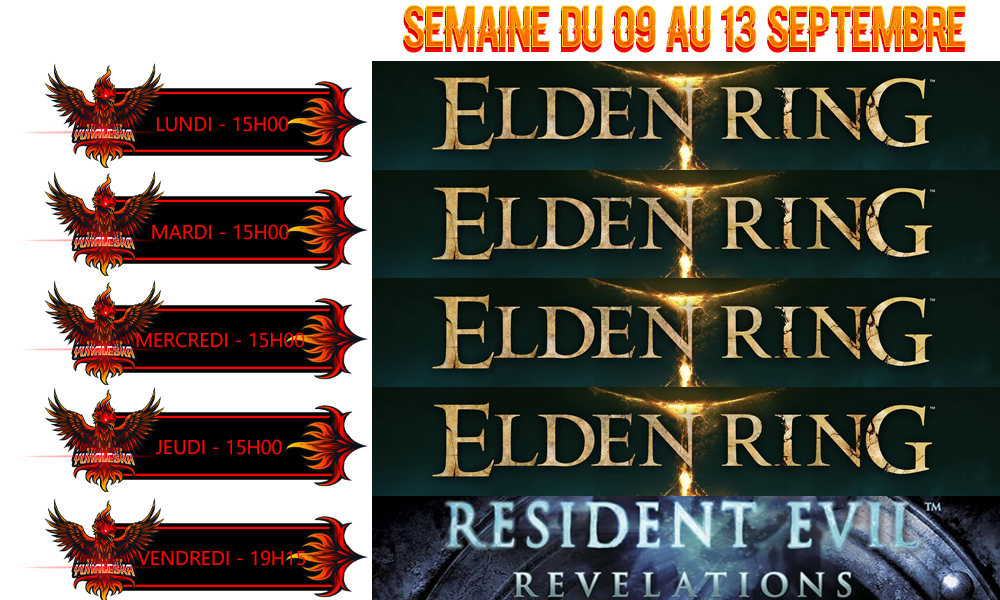
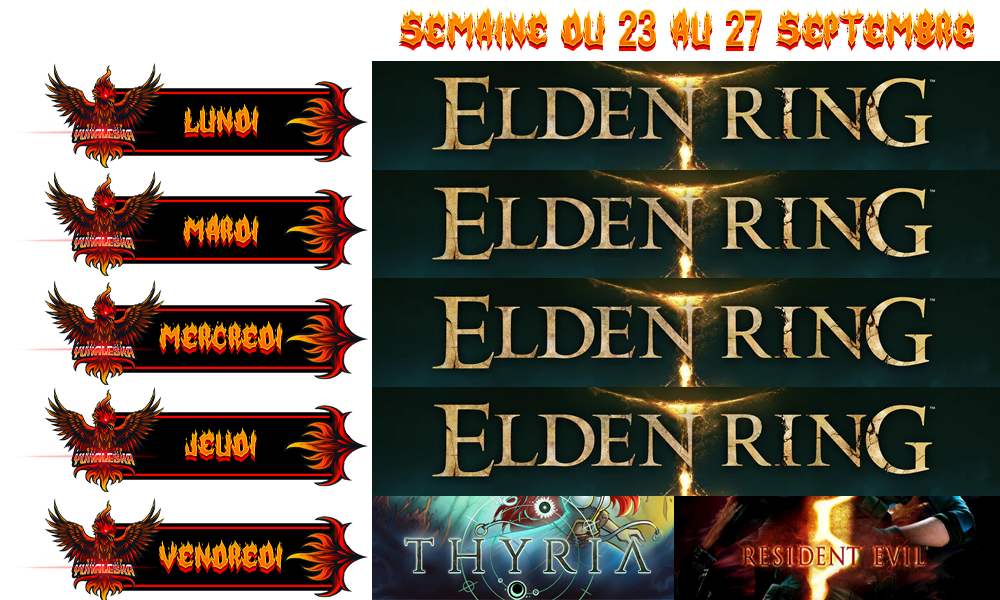
Steam games and achievement updates, planning update, added halloween schedule

diff --git a/steam.html b/steam.html
@@ -40,7 +40,7 @@
 				<h3 class="site-sidebar__pseudo">Rydia</h3>
 				<div class="site-sidebar__informations">
 					<ul class="site-sidebar__list">
-						<li class="site-sidebar__items item-line">108 jeux possédés</li>
+						<li class="site-sidebar__items item-line">109 jeux possédés</li>
 						<div class="site-sidebar__items block-trophies">
 							<li class="site-sidebar__items trophies">
 								<img src="https://zupimages.net/up/23/28/w9k3.png" class="site-sidebar-achievement" /> 7/101
@@ -54,7 +54,7 @@
 							</div>
 						</div>
 						<li class="site-sidebar__items item-line achievement-line">
-							<img src="https://zupimages.net/up/23/28/zq6r.png" class="site-sidebar-achievement" />1321/5430</li>
+							<img src="https://zupimages.net/up/23/28/zq6r.png" class="site-sidebar-achievement" />1347/5461</li>
 						<li class="site-sidebar__items item-line">Premier 100% : Spyro Reignited</li>
 						<li class="site-sidebar__items item-line">Dernier 100% : Tunic</li>
 					</ul>
@@ -67,10 +67,10 @@
 				<section class="site-main__section first-section">
 				
 					<div class="games-show-steam effect-show-steam not-platined-steam">
-            <img src="assets/images/steam/alan-wake.jpg" />
-            <div class="mask mask-1"></div>
-            <div class="mask mask-2"></div>
-            <div class="content">
+						<img src="assets/images/steam/alan-wake.jpg" />
+						<div class="mask mask-1"></div>
+						<div class="mask mask-2"></div>
+						<div class="content">
 							<h2>Alan Wake</h2>
 							<div class="games-trophies">
 								<div class="achievements-steam-logo not-completed-steam">
@@ -82,14 +82,14 @@
 									</div>
 								</div>
 							</div>
-            </div>
-          </div>
+						</div>
+					</div>
 					
 					<div class="games-show-steam effect-show-steam not-platined-steam">
-            <img src="assets/images/steam/aura-kingdom.jpg" />
-            <div class="mask mask-1"></div>
-            <div class="mask mask-2"></div>
-            <div class="content">
+						<img src="assets/images/steam/aura-kingdom.jpg" />
+						<div class="mask mask-1"></div>
+						<div class="mask mask-2"></div>
+						<div class="content">
 							<h2>Aura Kingdom</h2>
 							<div class="games-trophies">
 								<div class="achievements-steam-logo not-completed-steam">
@@ -101,8 +101,8 @@
 									</div>
 								</div>
 							</div>
-            </div>
-          </div>
+						</div>
+					</div>
 					
 					<div class="games-show-steam effect-show-steam not-platined-steam">
             <img src="assets/images/steam/baldurs-gate-3.jpg" />
@@ -455,10 +455,10 @@
 							<div class="games-trophies">
 								<div class="achievements-steam-logo not-completed-steam">
 									<div class="amount-achievement-steam">
-										8/42
+										20/42
 									</div>
 									<div class="percent-games-steam">
-										<div id="elden-ring-percent">19%</div>
+										<div id="elden-ring-percent">47%</div>
 									</div>
 								</div>
 							</div>
@@ -1462,10 +1462,10 @@
 							<div class="games-trophies">
 								<div class="achievements-steam-logo not-completed-steam">
 									<div class="amount-achievement-steam">
-										5/50
+										14/50
 									</div>
 									<div class="percent-games-steam">
-										<div id="re-revelations-percent">10%</div>
+										<div id="re-revelations-percent">28%</div>
 									</div>
 								</div>
 							</div>
@@ -1777,10 +1777,10 @@
           </div>
 
 					<div class="games-show-steam effect-show-steam not-platined-steam">
-            <img src="assets/images/steam/the-kings-bird.jpg" />
-            <div class="mask mask-1"></div>
-            <div class="mask mask-2"></div>
-            <div class="content">
+						<img src="assets/images/steam/the-kings-bird.jpg" />
+						<div class="mask mask-1"></div>
+						<div class="mask mask-2"></div>
+						<div class="content">
 							<h2>The King's Bird</h2>
 							<div class="games-trophies">
 								<div class="achievements-steam-logo not-completed-steam">
@@ -1792,33 +1792,109 @@
 									</div>
 								</div>
 							</div>
-            </div>
-          </div>
+						</div>
+					</div>
 					
 					<div class="games-show-steam effect-show-steam not-platined-steam">
-            <img src="assets/images/steam/tiny-tinas-wonderlands.jpg" />
-            <div class="mask mask-1"></div>
-            <div class="mask mask-2"></div>
-            <div class="content">
+						<img src="assets/images/steam/the-room-1.jpg" />
+						<div class="mask mask-1"></div>
+						<div class="mask mask-2"></div>
+						<div class="content">
+							<h2>The Room</h2>
+							<div class="games-trophies">
+								<div class="achievements-steam-logo not-completed-steam">
+									<div class="amount-achievement-steam">
+										0/5
+									</div>
+									<div class="percent-games-steam">
+										<div class="zero-percent">0%</div>
+									</div>
+								</div>
+							</div>
+						</div>
+					</div>
+
+					<div class="games-show-steam effect-show-steam not-platined-steam">
+						<img src="assets/images/steam/the-room-2.jpg" />
+						<div class="mask mask-1"></div>
+						<div class="mask mask-2"></div>
+						<div class="content">
+							<h2>The Room Two</h2>
+							<div class="games-trophies">
+								<div class="achievements-steam-logo not-completed-steam">
+									<div class="amount-achievement-steam">
+										0/7
+									</div>
+									<div class="percent-games-steam">
+										<div class="zero-percent">0%</div>
+									</div>
+								</div>
+							</div>
+						</div>
+					</div>
+
+					<div class="games-show-steam effect-show-steam not-platined-steam">
+						<img src="assets/images/steam/the-room-3.jpg" />
+						<div class="mask mask-1"></div>
+						<div class="mask mask-2"></div>
+						<div class="content">
+							<h2>The Room Three</h2>
+							<div class="games-trophies">
+								<div class="achievements-steam-logo not-completed-steam">
+									<div class="amount-achievement-steam">
+										0/10
+									</div>
+									<div class="percent-games-steam">
+										<div class="zero-percent">0%</div>
+									</div>
+								</div>
+							</div>
+						</div>
+					</div>
+
+					<div class="games-show-steam effect-show-steam not-platined-steam">
+						<img src="assets/images/steam/the-room-4.jpg" />
+						<div class="mask mask-1"></div>
+						<div class="mask mask-2"></div>
+						<div class="content">
+							<h2>The Room 4 Old Sins</h2>
+							<div class="games-trophies">
+								<div class="achievements-steam-logo not-completed-steam">
+									<div class="amount-achievement-steam">
+										0/9
+									</div>
+									<div class="percent-games-steam">
+										<div class="zero-percent">0%</div>
+									</div>
+								</div>
+							</div>
+						</div>
+					</div>
+
+					<div class="games-show-steam effect-show-steam not-platined-steam">
+						<img src="assets/images/steam/tiny-tinas-wonderlands.jpg" />
+						<div class="mask mask-1"></div>
+						<div class="mask mask-2"></div>
+						<div class="content">
 							<h2>Tiny Tina's Wonderlands</h2>
 							<div class="games-trophies">
 								<div class="achievements-steam-logo not-completed-steam">
 									<div class="amount-achievement-steam">
-										34/47
+										38/47
 									</div>
 									<div class="percent-games-steam">
-										<div id="tiny-tina-percent">72%</div>
+										<div id="tiny-tina-percent">80%</div>
 									</div>
 								</div>
 							</div>
-            </div>
-          </div>
+						</div>
+					</div>
 					
 					<div class="games-show-steam effect-show-steam not-platined-steam">
-            <img src="assets/images/steam/titan-quest.jpg" />
-            <div class="mask mask-1"></div>
-            <div class="mask mask-2"></div>
-            <div class="content">
+						<img src="assets/images/steam/titan-quest.jpg" />
+						<div class="mask mask-1"></div>
+						<div class="mask mask-2"></div>
+						<div class="content">
 							<h2>Titan Quest</h2>
 							<div class="games-trophies">
 								<div class="achievements-steam-logo not-completed-steam">
@@ -1830,8 +1906,8 @@
 									</div>
 								</div>
 							</div>
-            </div>
-          </div>
+						</div>
+					</div>
 					
 					<div class="games-show-steam effect-show-steam not-platined-steam">
             <img src="assets/images/steam/tormented-souls.jpg" />

diff --git a/assets/css/games-steam.css b/assets/css/games-steam.css
@@ -263,7 +263,7 @@ html,
 #bdl3-percent { width : 76%; }
 #bright-memory-percent { width : 50%; }
 #bright-memory-i-percent { width : 63%; }
-#elden-ring-percent { width : 19%; }
+#elden-ring-percent { width : 47%; }
 #evergate-percent { width : 8%; }
 #ff4-percent { width : 75%; }
 #ff6-percent { width : 3%; }
@@ -285,13 +285,13 @@ html,
 #project-zero-5-percent { width : 53%; }
 #re5-percent { width : 75%; }
 #re6-percent { width : 41%; }
-#re-revelations-percent {width : 10%;}
+#re-revelations-percent {width : 28%;}
 #smite-percent { width : 1%; }
 #talesarise-percent { width : 81%; }
 #tew-percent { width : 32%; }
 #tew2-percent { width : 88%; }
 #the-first-tree-percent { width : 42%; }
-#tiny-tina-percent { width : 72%; }
+#tiny-tina-percent { width : 80%; }
 #titan-quest-percent { width : 2%; }
 #tormented-souls-percent { width : 86%; }
 #visage-percent { width : 81%; }

diff --git a/assets/css/index.css b/assets/css/index.css
@@ -89,12 +89,12 @@ iframe { width: 100%; height: 100%;}
     width : 56px;
 }
 
-.twitch-rewards:last-of-type { width: 50%; overflow: hidden; height: 443px;}
+.twitch-rewards:last-of-type { width: 50%; /*overflow: hidden; height: 443px;*/}
 
 .index-planning { 
     width: 100%; 
-    height : 378px;
-    object-fit: contain;
+    /*height : 378px;
+    object-fit: contain;*/
 }
 
 .twitch-section {

diff --git a/index.html b/index.html
@@ -193,6 +193,7 @@
 						<div class="twitch-rewards">
 							<h2>Planning</h2>
 							<img src="assets/images/planning.png" class="index-planning" />
+							<img src="assets/images/planning-october.png" class="index-planning" />
 						</div>
 					</div>
 				</section>
